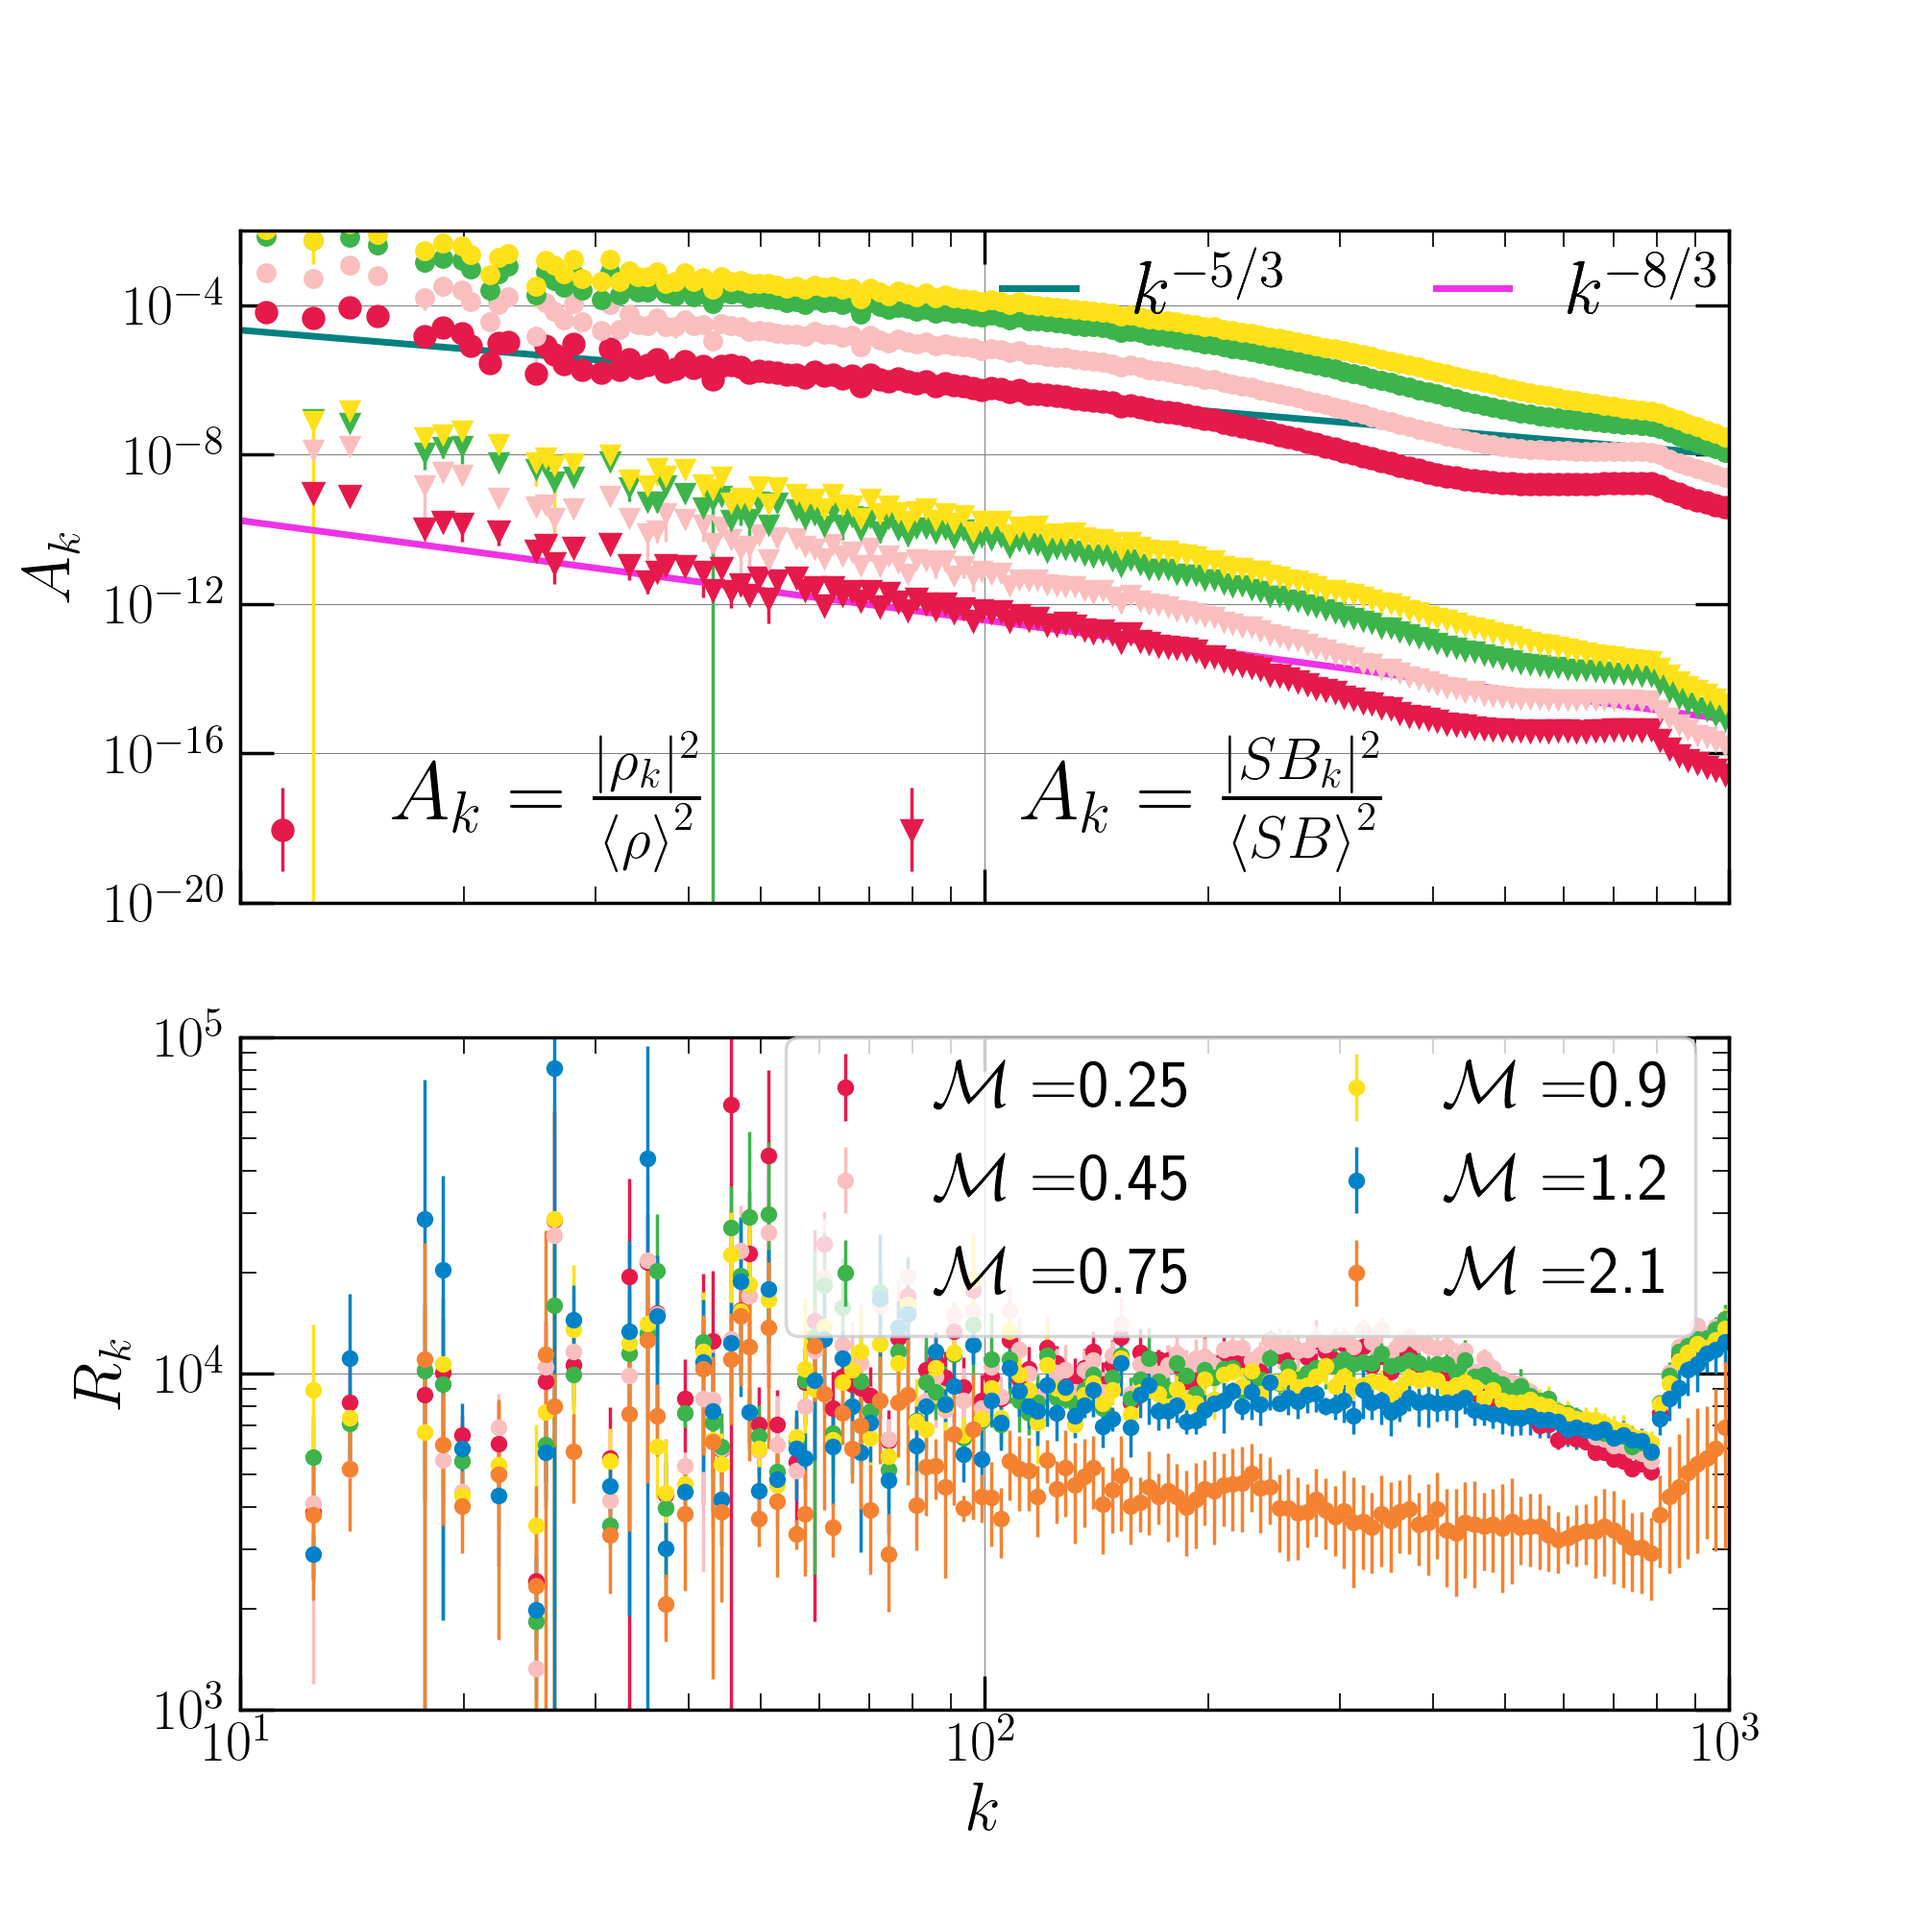
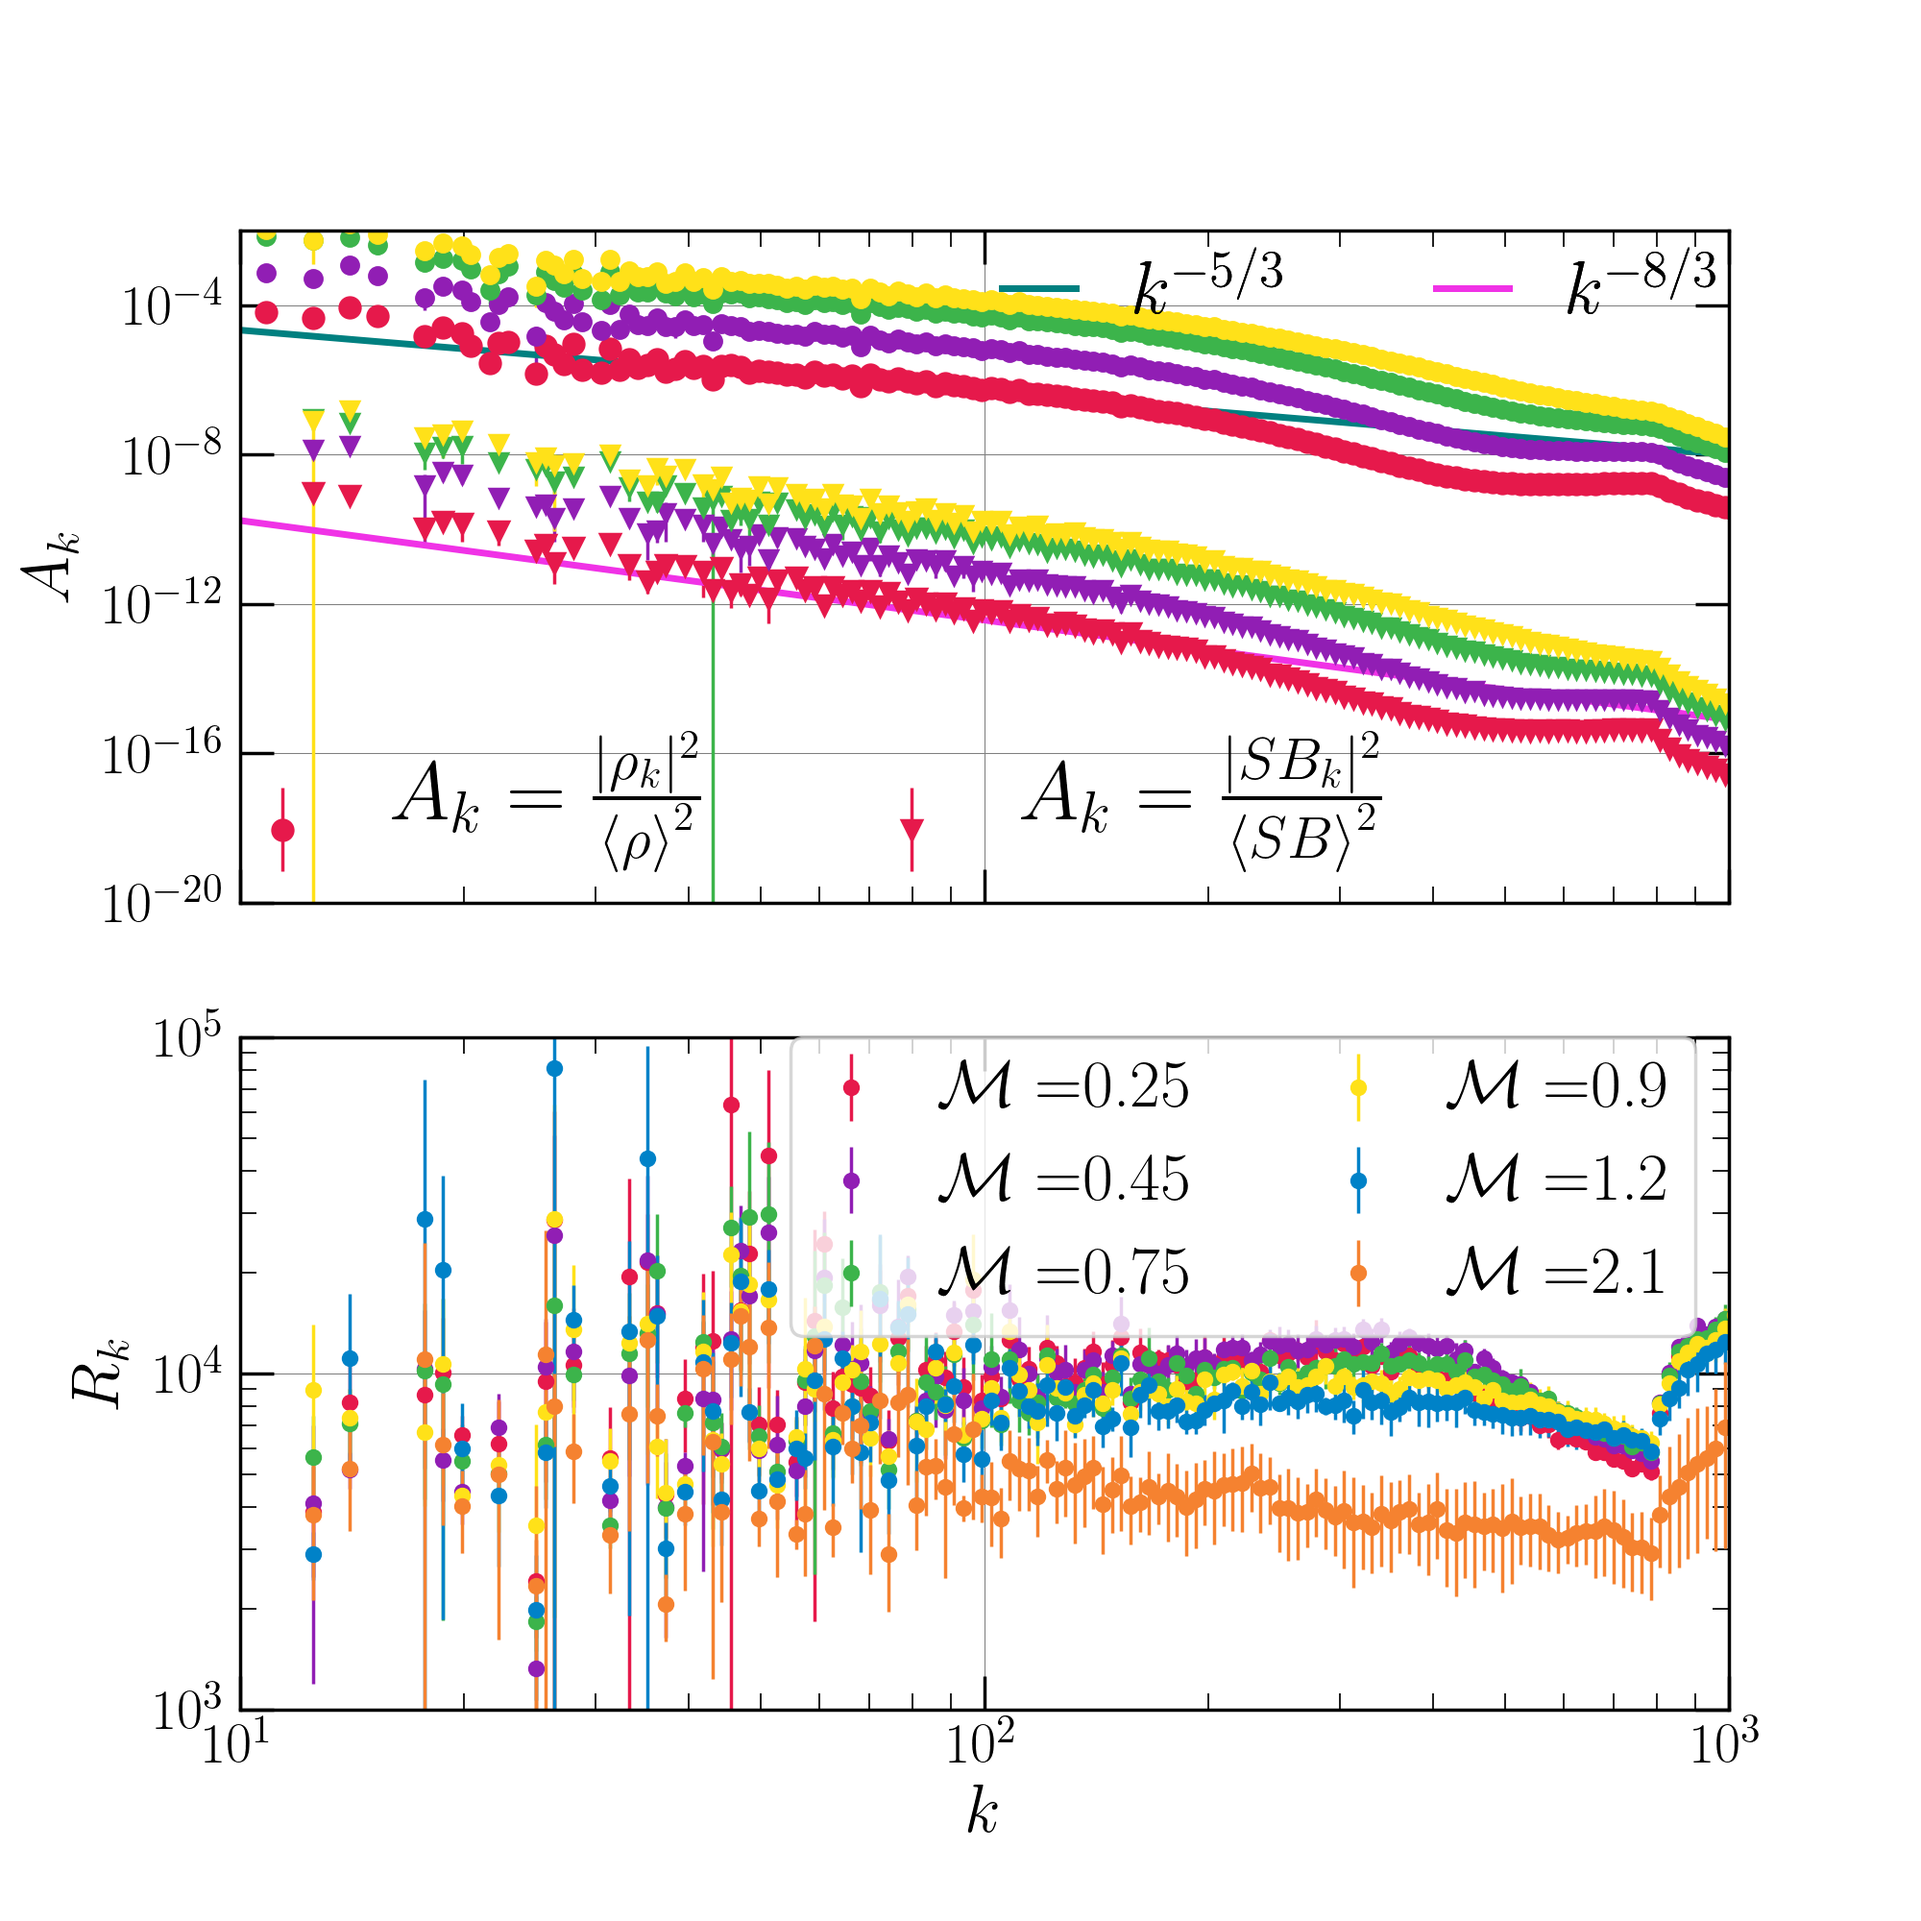
Edited plots

diff --git a/surface_brightness/sbk_rhok.py b/surface_brightness/sbk_rhok.py
@@ -46,7 +46,7 @@ start_array6=np.array(((1,0.4), (2,0.4), (3,0.4), (4,0.4), (5,0.4)))
 
 start=np.array((start_array1, start_array2, start_array3, start_array4, start_array5, start_array6))
 
-colors=((230, 25, 75), (250, 190, 190) , (60, 180, 75), (255, 225, 25), (0, 130, 200), (245, 130, 48), (210, 245, 60), (145, 30, 180), (0, 128, 128), (240, 50, 230))
+colors=((230, 25, 75), (145, 30, 180), (60, 180, 75), (255, 225, 25), (0, 130, 200), (245, 130, 48), (210, 245, 60), (250, 190, 190), (0, 128, 128), (240, 50, 230))
 colors=np.array(colors)/255.
 
 spectra = [None] * (2)
@@ -61,7 +61,7 @@ for i in xrange(amp.size):
         Ek1=np.zeros((no_files,no_bins))
         Ek2=np.zeros((no_files,no_bins))
 	for j1 in xrange(no_files):
-		filedir='/mnt/lustre/ug4/ugrajs/fiducial_runs/256/amp'+str(int(amp[i]*10000)).rjust(5,'0')+'/run'+str(int(start[i][:,0][j1]))+'/'
+		filedir='/mnt/lustre/phy/phyprtek/RAJ_RUNS/fiducial_data/amp'+str(int(amp[i]*10000)).rjust(5,'0')+'/run'+str(int(start[i][:,0][j1]))+'/'
 		fileno=str(int(start[i][:,1][j1]/time_step)).rjust(4,'0')
 		data=np.fromfile(filedir+'sbs'+fileno+'.dbl')
 		sb_mean=np.average(data)
@@ -109,6 +109,7 @@ x=np.arange(10., 10**3., 1.)
 fit[0], = ax1.plot(x, 1e-3*x**(-5./3.), label=r'$k^{-5/3}$', linewidth=2.0, color=colors[8])
 fit[1], = ax1.plot(x, 8e-8*x**(-8./3.), label=r'$k^{-8/3}$', linewidth=2.0, color=colors[9])
 fit_legend=ax1.legend(handles=fit, loc='upper right', bbox_to_anchor=(1.04, 1.05), ncol=2, fontsize=22.)
+
 fit_legend.get_frame().set_alpha(0.)
 
 ax1.add_artist(fit_legend)
@@ -128,8 +129,7 @@ ax2.tick_params(axis='both', which='minor', direction='in', length=5, width=0.5,
 ax2.grid(color='grey', linestyle='-', linewidth=.3)
 ax2.set_yscale('log')
 ax2.set_xscale('log')
-ax2.legend(loc='upper right', bbox_to_anchor=(1.0, 1.05), ncol=2, fancybox=True, framealpha=0.8, fontsize=20.)
-
+l2=ax2.legend(loc='upper right', bbox_to_anchor=(1.0, 1.05), ncol=2, fancybox=True, frameon=True, framealpha=0.8, fontsize=20.)
 #plt.show()
 plt.savefig('SBk_rhok.png', dpi=250)
 plt.close()

diff --git a/All_analysis/rho-vel-prs-spetra.py b/All_analysis/rho-vel-prs-spetra.py
@@ -45,7 +45,7 @@ start_array6=np.array(((1,0.4), (2,0.4), (3,0.4), (4,0.4), (5,0.4)))
 
 start=np.array((start_array1, start_array2, start_array3, start_array4, start_array5, start_array6))
 
-colors=((230, 25, 75), (250, 190, 190) , (60, 180, 75), (255, 225, 25), (0, 130, 200), (245, 130, 48), (210, 245, 60), (145, 30, 180), (0, 128, 128), (240, 50, 230))
+colors=((230, 25, 75), (145, 30, 180), (60, 180, 75), (255, 225, 25), (0, 130, 200), (245, 130, 48), (210, 245, 60), (250, 190, 190), (0, 128, 128), (240, 50, 230))
 colors=np.array(colors)/255.
 
 num_plots=2

diff --git a/surface_brightness/sb_mach_fiducial.py b/surface_brightness/sb_mach_fiducial.py
@@ -20,7 +20,7 @@ plt.rc('text', usetex=True)
 
 #Load data files
 amp=np.array((0.1,0.9,2.5,0.1))
-start=np.array((2.0,2.0,0.8,0.6))
+start=np.array((2.0,0.4,0.2,2.0))
 end=np.array((50., 50., 50., 50.))
 step_size=0.2
 perturb = [None] * (amp.size)
